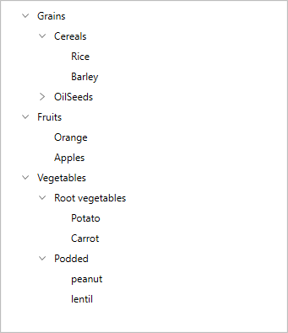
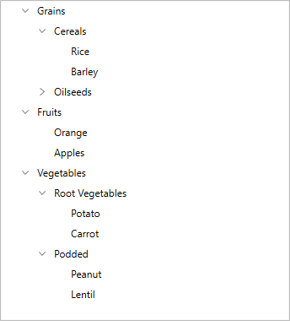
Changed the casing and img in getting started.

diff --git a/wpf/TreeView/Getting-Started.md b/wpf/TreeView/Getting-Started.md
@@ -114,20 +114,17 @@ You can create and manage the `TreeViewNode` objects by yourself to display the 
 
 {% tabs %}
 {% highlight xaml %}
-
 <Window
         xmlns="http://schemas.microsoft.com/winfx/2006/xaml/presentation"
         xmlns:x="http://schemas.microsoft.com/winfx/2006/xaml"
         xmlns:d="http://schemas.microsoft.com/expression/blend/2008"
         xmlns:mc="http://schemas.openxmlformats.org/markup-compatibility/2006"
         xmlns:local="clr-namespace:GettingStarted"
-        xmlns:Syncfusion="http://schemas.syncfusion.com/wpf" 
-        xmlns:Engine="clr-namespace:Syncfusion.UI.Xaml.TreeView.Engine;assembly=Syncfusion.SfTreeView.WPF" x:Class="GettingStarted.MainWindow"
+        xmlns:Syncfusion="http://schemas.syncfusion.com/wpf" xmlns:Engine="clr-namespace:Syncfusion.UI.Xaml.TreeView.Engine;assembly=Syncfusion.SfTreeView.WPF" x:Class="GettingStarted.MainWindow"
         mc:Ignorable="d"
         Title="MainWindow" Height="450" Width="800">
     <Grid>
-
-        <Syncfusion:SfTreeView HorizontalAlignment="Left" Height="250" Margin="318,0,0,0" VerticalAlignment="Center" Width="250">
+        <Syncfusion:SfTreeView HorizontalAlignment="Left" Height="414" Margin="318,0,0,0" VerticalAlignment="Center" Width="250">
             <Syncfusion:SfTreeView.Nodes>
                 <Engine:TreeViewNode Content="Grains" IsExpanded="True">
                     <Engine:TreeViewNode.ChildNodes>
@@ -137,7 +134,7 @@ You can create and manage the `TreeViewNode` objects by yourself to display the 
                                 <Engine:TreeViewNode Content="Barley"/>
                             </Engine:TreeViewNode.ChildNodes>
                         </Engine:TreeViewNode>
-                        <Engine:TreeViewNode Content="OilSeeds">
+                        <Engine:TreeViewNode Content="Oilseeds">
                             <Engine:TreeViewNode.ChildNodes>
                                 <Engine:TreeViewNode Content="Safflower"/>
                             </Engine:TreeViewNode.ChildNodes>
@@ -152,7 +149,7 @@ You can create and manage the `TreeViewNode` objects by yourself to display the 
                 </Engine:TreeViewNode>
                 <Engine:TreeViewNode Content="Vegetables" IsExpanded="true">
                     <Engine:TreeViewNode.ChildNodes>
-                        <Engine:TreeViewNode Content="Root vegetables" IsExpanded="true">
+                        <Engine:TreeViewNode Content="Root Vegetables" IsExpanded="true">
                             <Engine:TreeViewNode.ChildNodes>
                                 <Engine:TreeViewNode Content="Potato"/>
                                 <Engine:TreeViewNode Content="Carrot"/>
@@ -160,8 +157,8 @@ You can create and manage the `TreeViewNode` objects by yourself to display the 
                         </Engine:TreeViewNode>
                         <Engine:TreeViewNode Content="Podded">
                             <Engine:TreeViewNode.ChildNodes>
-                                <Engine:TreeViewNode Content="peanut"/>
-                                <Engine:TreeViewNode Content="lentil"/>
+                                <Engine:TreeViewNode Content="Peanut"/>
+                                <Engine:TreeViewNode Content="Lentil"/>
                             </Engine:TreeViewNode.ChildNodes>
                         </Engine:TreeViewNode>
                     </Engine:TreeViewNode.ChildNodes>
